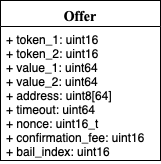
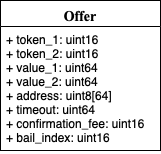
refactor: remove obsolete field from Offer transaction

Changed region(s): [[0.0, 0.2078, 1.0, 0.987], [0.0, 0.0519, 1.0, 0.1818]]

diff --git a/chasm/consensus/primitives/transaction.py b/chasm/consensus/primitives/transaction.py
@@ -66,13 +66,13 @@ class OfferTransaction(Transaction):
     def fields(cls):
         fields = [('token_in', sedes.big_endian_int), ('token_out', sedes.big_endian_int),
                   ('value_in', sedes.big_endian_int), ('value_out', sedes.big_endian_int),
-                  ('address_out', sedes.binary), ('timeout', sedes.big_endian_int), ('nonce', sedes.big_endian_int),
+                  ('address_out', sedes.binary), ('timeout', sedes.big_endian_int),
                   ('confirmation_fee_index', sedes.big_endian_int), ('deposit_index', sedes.big_endian_int)]
 
         return fields + super().fields()
 
     def __init__(self, inputs, outputs, token_in, token_out, value_in, value_out, address_out, confirmation_fee_index,
-                 deposit_index, nonce, timeout):
+                 deposit_index, timeout):
         self.token_in = token_in
         self.token_out = token_out
         self.value_in = value_in
@@ -80,7 +80,6 @@ class OfferTransaction(Transaction):
         self.address_out = address_out
         self.confirmation_fee_index = confirmation_fee_index
         self.deposit_index = deposit_index
-        self.nonce = nonce
         self.timeout = timeout
 
         super().__init__(inputs=inputs, outputs=outputs)

diff --git a/tests/test_serialization.py b/tests/test_serialization.py
@@ -65,7 +65,7 @@ def minting_transaction(tx_transfer_outputs):
 @fixture
 def xpeer_offer_transaction(tx_input, tx_transfer_outputs, alice):
     return OfferTransaction([tx_input], tx_transfer_outputs, Tokens.BITCOIN.value, Tokens.ETHEREUM.value, 10, 100,
-                            alice.pub, 0, 1, 0, 1000)
+                            alice.pub, 0, 1, 1000)
 
 
 @fixture

diff --git a/README.md b/README.md
@@ -42,7 +42,7 @@ than simple transfers, so miners have more expensive computations. This is the w
 the more miners who want to catch it. It is worth mentioning that the offer becomes visible only when is included in xpeer's blockchain. The same with incentive for adding
 a confirmation block, which requires the most computations in our protocol. A deposit is a kind of protection for cheating. When the side of exchange plays the game, it is handed back. 
 There is also another vital information - timeout. Timeout says how much time an offer is valid and, in case of match, how much time sides have for an exchange then.
-The offer has one more additional field - nonce. Once the fields has been set, the offer is hashed and the hash becomes an id of the exchange. One cannot send an offer with an id of some other transaction - if your offer's id is a duplicate, please adjust the nonce field.
+Once the fields has been set, the offer is hashed and the hash becomes an id of the exchange. One cannot send an offer with an id of some other transaction.
 
 #### Taking an offer
 
